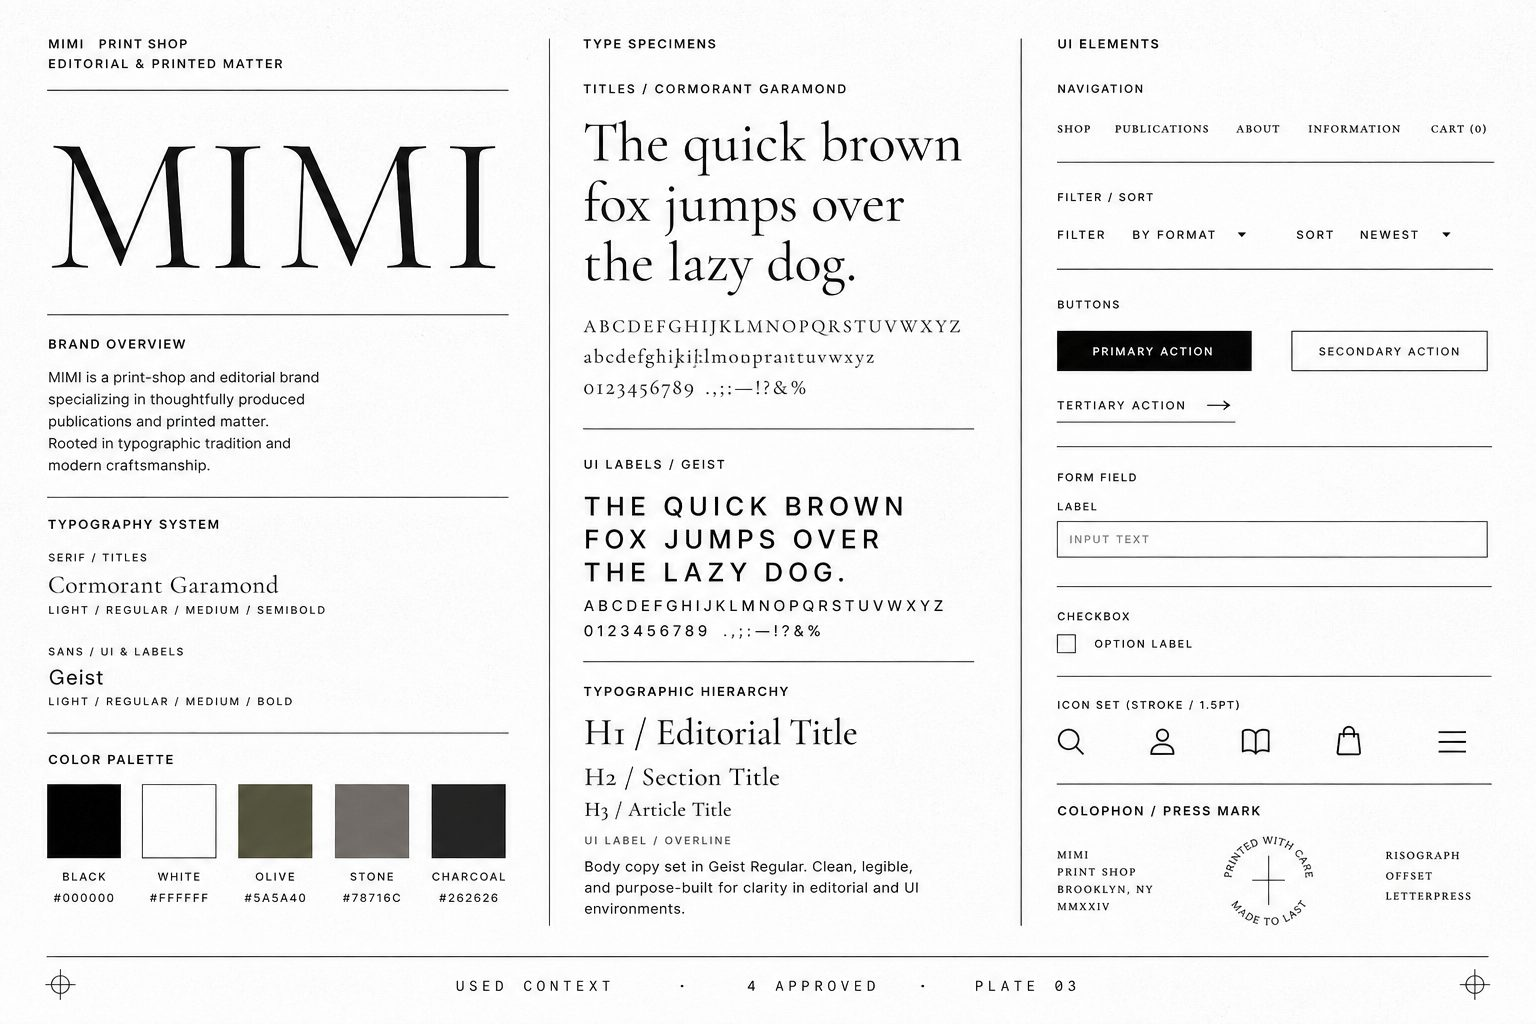
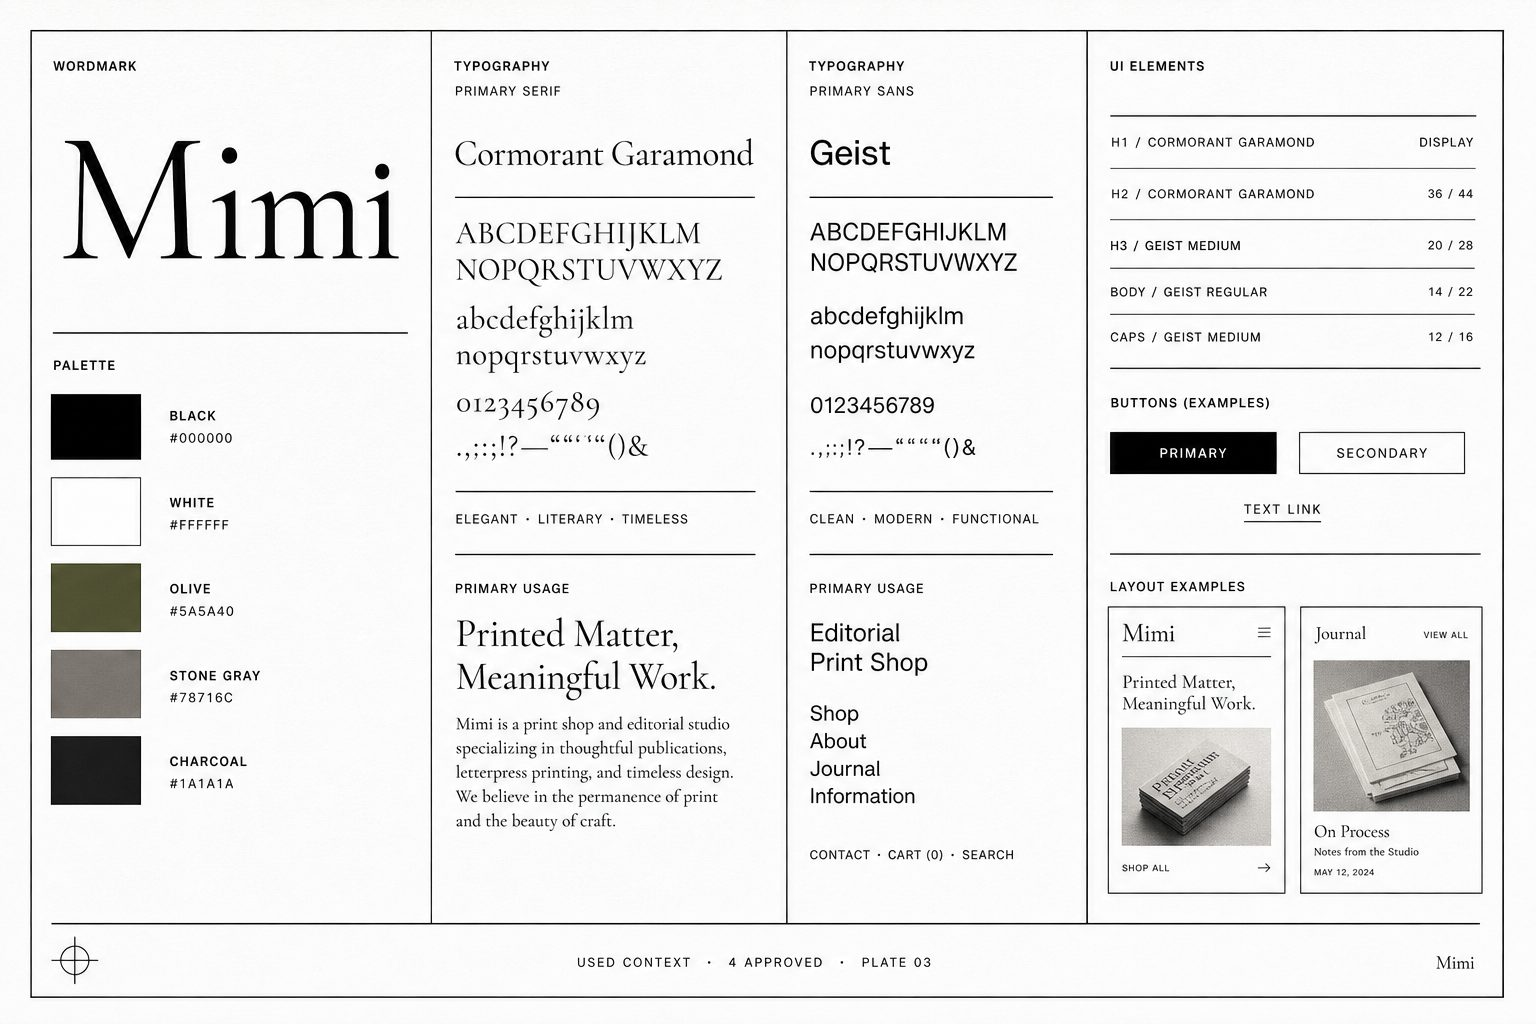
Use title-case Mimi wordmark in aesthetic specs and proofs
Lock brand casing to Mimi (not all-caps MIMI) across house-style
PRDs and regenerate/composite proof boards to match.

diff --git a/prd/aesthetic-02-one-composition.md b/prd/aesthetic-02-one-composition.md
@@ -32,12 +32,12 @@ Studio, Signature, Stand, and Front Page often read as **chamber dashboards**: t
 
 | Element | First viewport | Below / secondary |
 |---------|----------------|-------------------|
-| Brand | Hero-level MIMI | — |
+| Brand | Hero-level **Mimi** (title case) | — |
 | Thesis | One issue line / dek | Essay list, contributors |
 | Action | Enter issue / Read | Subscribe, Gateway |
 | Visual | Full-bleed cover (edge-to-edge) | Grid of further pieces |
 
-**Intention:** Mag fold cover, not magazine CMS dashboard. No stats, schedules, or promo chips in viewport 1 (aligns with existing front-page functional spec’s “current issue” spirit).
+**Intention:** Mag fold cover, not magazine CMS dashboard. No stats, schedules, or promo chips in viewport 1 (aligns with existing front-page functional spec’s “current issue” spirit). Masthead is title-case **Mimi** in Cormorant — not all-caps `MIMI` (magazine generators bias toward caps; implementation must force title case).
 
 ### Studio (`InputStudio` / Quiet Studio / Cover)
 
@@ -54,7 +54,7 @@ Studio, Signature, Stand, and Front Page often read as **chamber dashboards**: t
 
 | Element | First viewport | Secondary |
 |---------|----------------|-----------|
-| Brand | MIMI + “Signature” | — |
+| Brand | **Mimi** + “Signature” | — |
 | Thesis | Aesthetic name / plate title | Charts, DNA metrics |
 | Action | Export / Share | Regenerate, history |
 | Visual | Collectible plate (see PRD-03) | Drift charts |

diff --git a/prd/aesthetic-01-house-style.md b/prd/aesthetic-01-house-style.md
@@ -41,6 +41,7 @@ Cormorant + Geist + grain is already Mimi, but token usage drifts into warm crea
 
 ### Typography discipline
 
+- **Wordmark**: **`Mimi`** in Cormorant — title case only. Do not render the brand as all-caps `MIMI` on public plates, entry compositions, Signature/Stand, or share cards. Micro labels may still use tracked uppercase for *system* chrome (e.g. `COLOPHON`, `ISSUE`) but never for the product name.
 - **Serif (Cormorant)**: brand, theses, Signature names, essay titles, colophon italics.
 - **Sans (Geist)**: UI labels, tracked uppercase microcopy, buttons default.
 - **Mono (JetBrains)**: provenance IDs, folio numbers, atom IDs — sparingly.
@@ -56,6 +57,7 @@ Cormorant + Geist + grain is already Mimi, but token usage drifts into warm crea
 ### Anti-drift checklist (acceptance)
 
 - [ ] First viewport without nav still reads as Mimi (brand test).
+- [ ] Product wordmark renders as **`Mimi`**, never all-caps `MIMI`.
 - [ ] No large warm-cream panel as the primary field on Front Page / Share / Signature / Stand.
 - [ ] No terracotta / purple / glow accents on public face.
 - [ ] Olive appears only as mark/folio/colophon accent, not as fill theme.

diff --git a/prd/aesthetic-system-overview.md b/prd/aesthetic-system-overview.md
@@ -17,7 +17,8 @@ The product differentiator is not “pretty generation UI.” It is **approved t
 ## North-star aesthetic thesis
 
 > **Print-shop archive, not lifestyle blog.**  
-> High-contrast black/white field, olive and stone as accents only, serif for names and theses, Geist for system, column rules over cards, provenance as colophon, motion as press mechanics.
+> High-contrast black/white field, olive and stone as accents only, serif for names and theses, Geist for system, column rules over cards, provenance as colophon, motion as press mechanics.  
+> **Wordmark casing: `Mimi`** (title case in Cormorant) — not all-caps `MIMI`, not `mimi` as display brand.
 
 ## Pillars (mapped PRDs)
 

diff --git a/prd/aesthetic-ux-ui-plan.md b/prd/aesthetic-ux-ui-plan.md
@@ -61,7 +61,7 @@ flowchart TB
 
 ## 3. Design principles (operational)
 
-1. **Brand first** — Wordmark/name is hero-level on public and entry plates.
+1. **Brand first** — Wordmark/name is hero-level on public and entry plates; product name is **`Mimi`** (title case), not all-caps `MIMI`.
 2. **One job per viewport** — No chamber dashboards at entry.
 3. **Artifact > chrome** — If chrome can live in a sheet, it should.
 4. **Provenance is UI** — Colophon is not footer fine print; it is a press mark.

diff --git a/prd/aesthetic-04-reduce-chrome.md b/prd/aesthetic-04-reduce-chrome.md
@@ -29,7 +29,7 @@ Moodboard, Studio, and Darkroom often present as tool consoles. On mobile especi
 
 ```
 ┌─────────────────────────────┐
-│ MIMI · Issue          [···] │  ← 40–48px chrome
+│ Mimi · Issue          [···] │  ← 40–48px chrome
 ├─────────────────────────────┤
 │                             │
 │         CANVAS / MEDIA      │  ← hero

diff --git a/prd/aesthetic-07-public-face.md b/prd/aesthetic-07-public-face.md
@@ -30,7 +30,7 @@ Front Page, Share Card, Signature, and Stand currently feel related in spirit bu
 | Element | Spec |
 |---------|------|
 | Field | White `#FFFFFF`, cool grain ≤12% |
-| Name | Cormorant, black, generous size |
+| Name / wordmark | Cormorant, black, generous size — product name as **`Mimi`** (title case), never `MIMI` |
 | Rules | 1px hairline column/section rules |
 | Meta | Geist uppercase tracked 0.2–0.35em |
 | Accent | Olive press mark / folio only |

diff --git a/prd/aesthetic-03-signature-stand.md b/prd/aesthetic-03-signature-stand.md
@@ -34,7 +34,7 @@ Brand feeling currently lives inside the app’s chambers. Outside Mimi, Midjour
 - White field, inset hairline plate border.
 - Aesthetic name in Cormorant (hero).
 - Geometric press mark derived from signature DNA (black + olive only).
-- Colophon line: approved atom count · plate date · MIMI.
+- Colophon line: approved atom count · plate date · **Mimi**.
 - No charts on the exportable face.
 
 **Exports**

diff --git a/proofs/aesthetic/README.md b/proofs/aesthetic/README.md
@@ -17,3 +17,5 @@ These are **direction boards**, not production pixel specs. Implementation shoul
 | `07-public-face-family.jpg` | Public face consistency |
 
 Visual language target: high-contrast black/white, olive/stone accents, Cormorant + Geist, column rules, print-shop discipline — not cream/lifestyle editorial cliché.
+
+**Wordmark:** title-case **Mimi** (not all-caps MIMI). Proofs regenerated to match.
